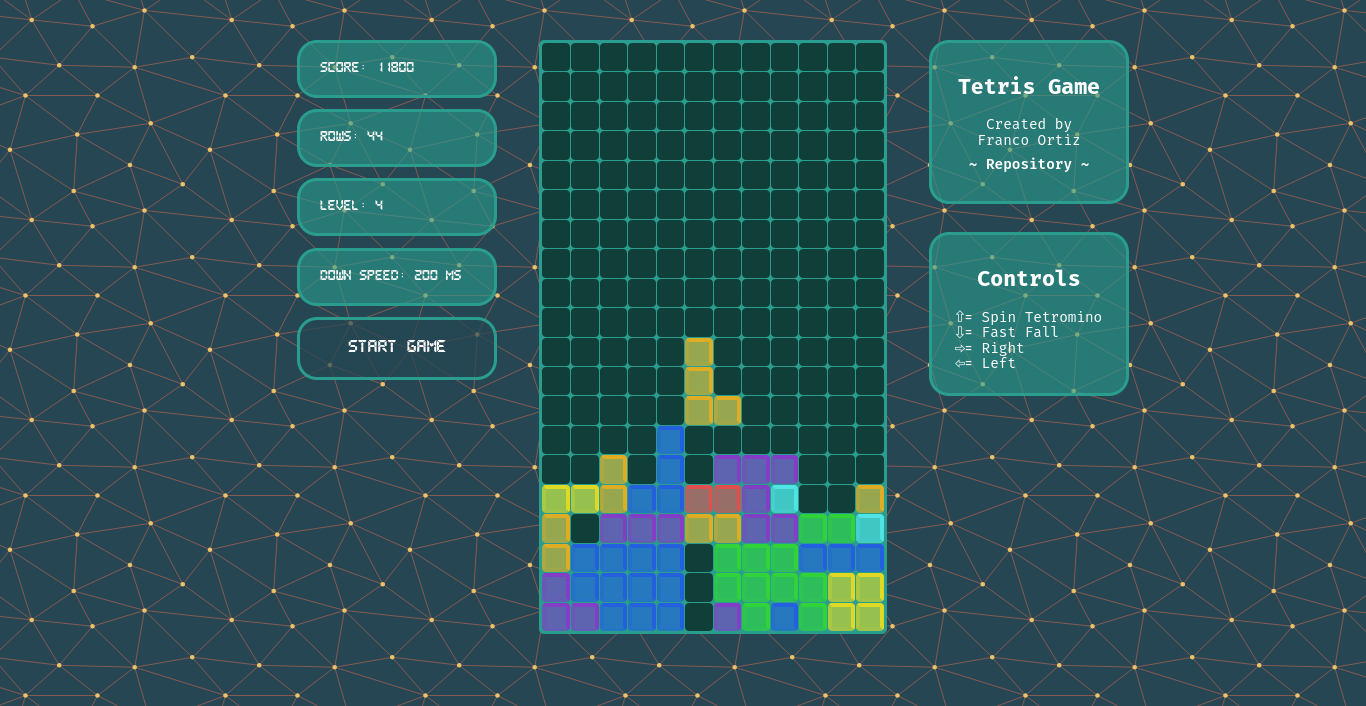
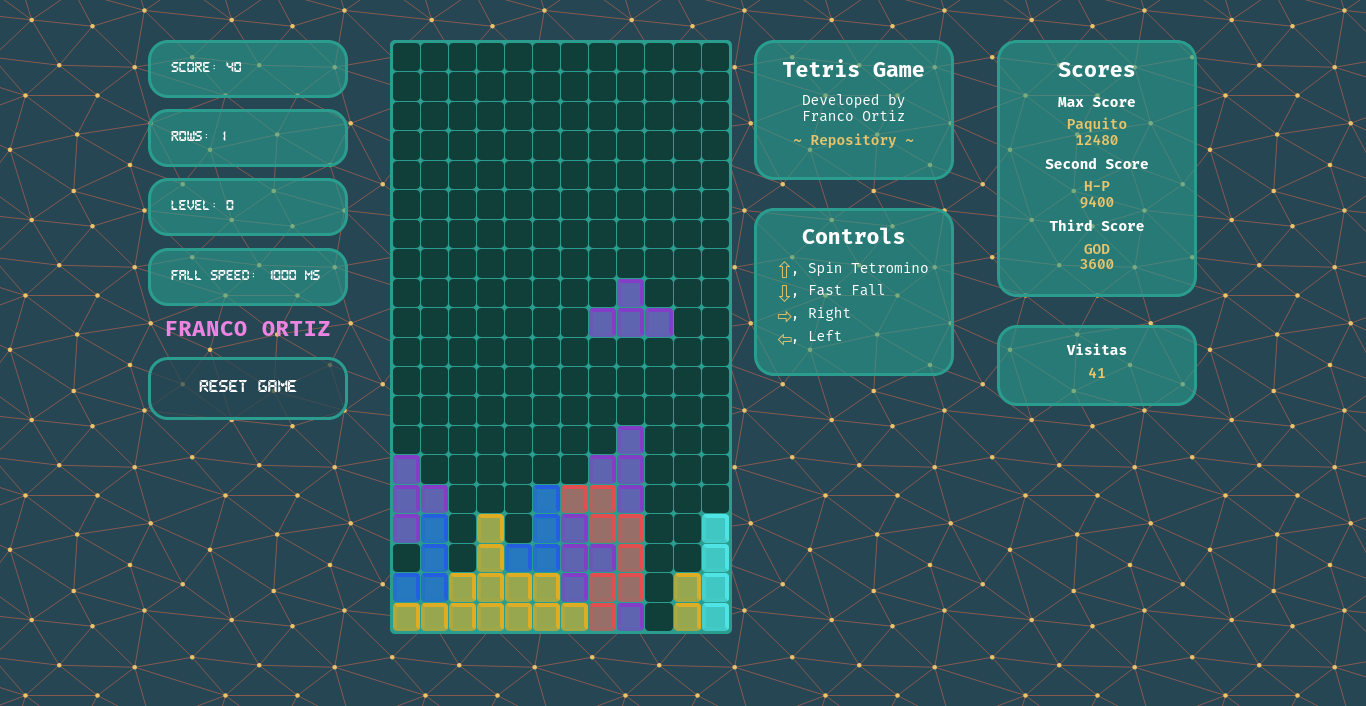
Update tetris project image, description and badges

diff --git a/src/components/projects/strings.js b/src/components/projects/strings.js
@@ -3,7 +3,7 @@ const strings = {
 		title: 'Projects',
 		repo: 'Repository',
 		fw: 'Simple application made with React, accesses the OpenWeather API and allows to obtain the temperature of any city in the world, has a mobile version. Minimalist aesthetic with careful contrasts.',
-		tetris: 'This is a "Tetris" game built entirely in Javascript with React.js. Styled Components were used to style it. The game is fully functional, it is managed with the keyboard arrows and it allows you to go up in score and difficulty.',
+		tetris: 'This is a "Tetris" game built entirely in Javascript with React.js. Styled Components were used to style it. The game is fully functional, it is controlled with the keyboard arrows and it allows you to go up in score and difficulty. It requires entering a user to play and saves the 3 highest scores in a database in the cloud, in the same way it has a visit counter hosted in the cloud.',
 		gaming: 'Ecommerce project of the bootcamp "I am Henry".It consists of a fully functional online video game store made from scratch, it allows you to search for products, add them to the cart, buy and receive it.In this project, all the technologies learned in the bootcamp and some self- taught were used.We worked with a group of 5 programmers using SCRUM methodology.',
 		progress: 'In Progress',
 	},
@@ -11,7 +11,7 @@ const strings = {
 		title: 'Proyectos',
 		repo: 'Repositorio',
 		fw: 'Aplicacion simple realizada con React, accede a la OpenWeather API y permite obtener la temperatura de cualquier ciudad del mundo, tiene version mobile. Estetica minimalista con constrastes cuidados.',
-		tetris: 'Este es un juego "Tetris" creado por completo en Javascript con  React.js. Se uso Styled Components para darle estilos.  El juego es totalmente funcional,  se maneja con las flechas del teclado y permite ir subiendo de puntaje y dificultad.',
+		tetris: 'Este es un juego "Tetris" creado por completo en Javascript con React.js. Se uso Styled Components para darle estilos. El juego es totalmente funcional, se maneja con las flechas del teclado y permite ir subiendo de puntaje y dificultad. Requiere ingresar un usuario para jugar y guarda los 3 mayores puntajes en una base de datos en la nube, de igual manera tiene un contador de visitas en la nube.',
 		gaming: 'Proyecto  Ecommerce del bootcamp "soy Henry". Consiste en una tienda online de videojuegos hecha desde cero completamente funcional, permite buscar productos, agregarlos al carrito , comprar y recibirlo. En este proyecto se usaron todas las teconologías aprendidas  en el bootcamp y algunas de forma autodidacta. Se trabajó con un grupo de 5 programadores usando metodología SCRUM.',
 		progress: 'En Curso',
 	}

diff --git a/src/components/projects/index.js b/src/components/projects/index.js
@@ -71,10 +71,10 @@ const Projects = () => {
 							</div>
 							<p>{strings[language].tetris}</p>
 							<ul className='badges'>
-								<li>JS ES6+</li>
 								<li>React</li>
+								<li>Redux</li>
+								<li>Firebase</li>
 								<li>Styled Components</li>
-								<li>Heroku</li>
 							</ul>
 						</figcaption>
 					</Fade>
@@ -96,7 +96,6 @@ const Projects = () => {
 								<li>React</li>
 								<li>React-Reveal</li>
 								<li>CSS Modules</li>
-								<li>Heroku</li>
 							</ul>
 						</figcaption>
 					</Fade>
